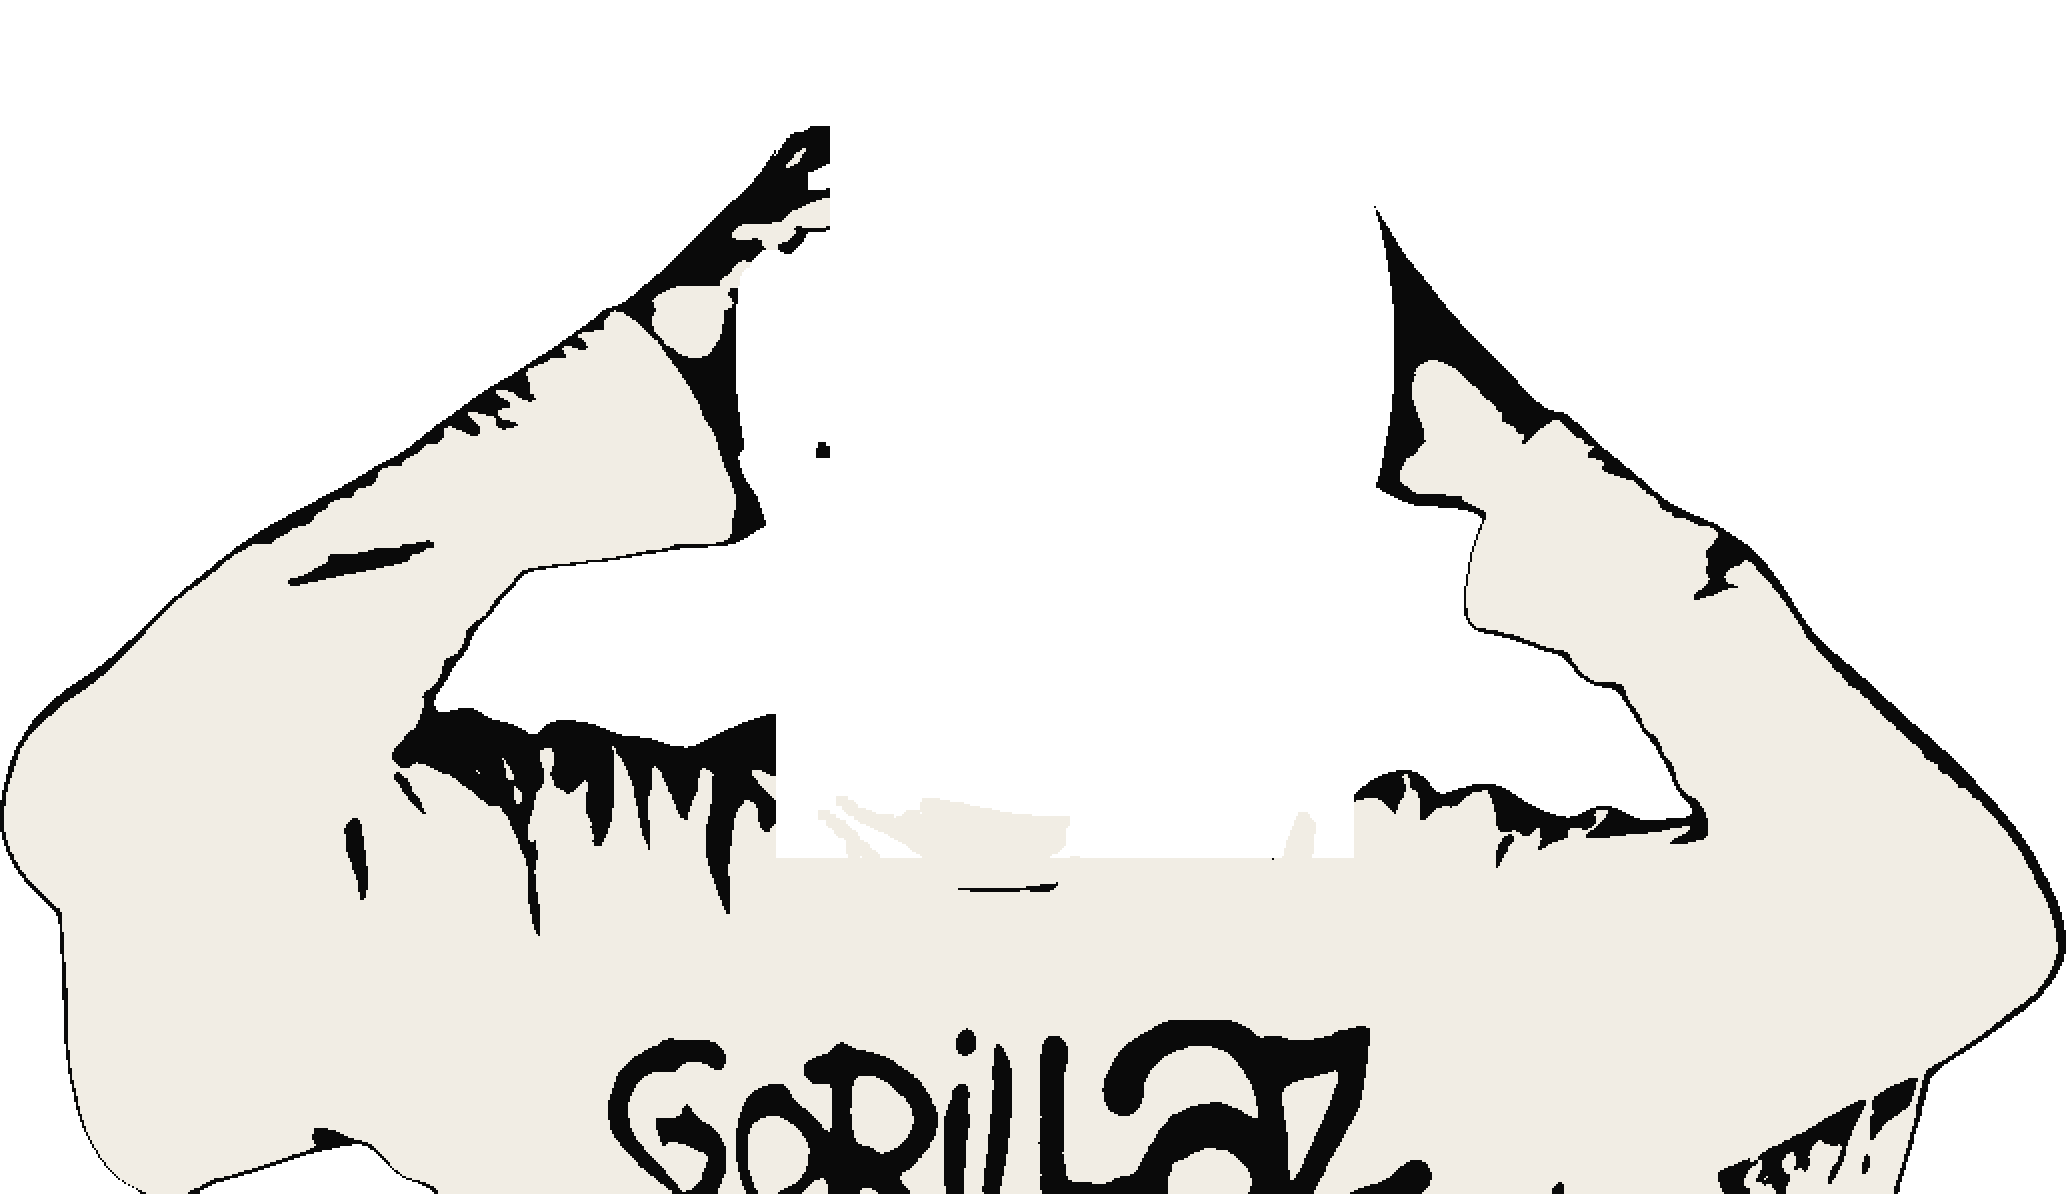
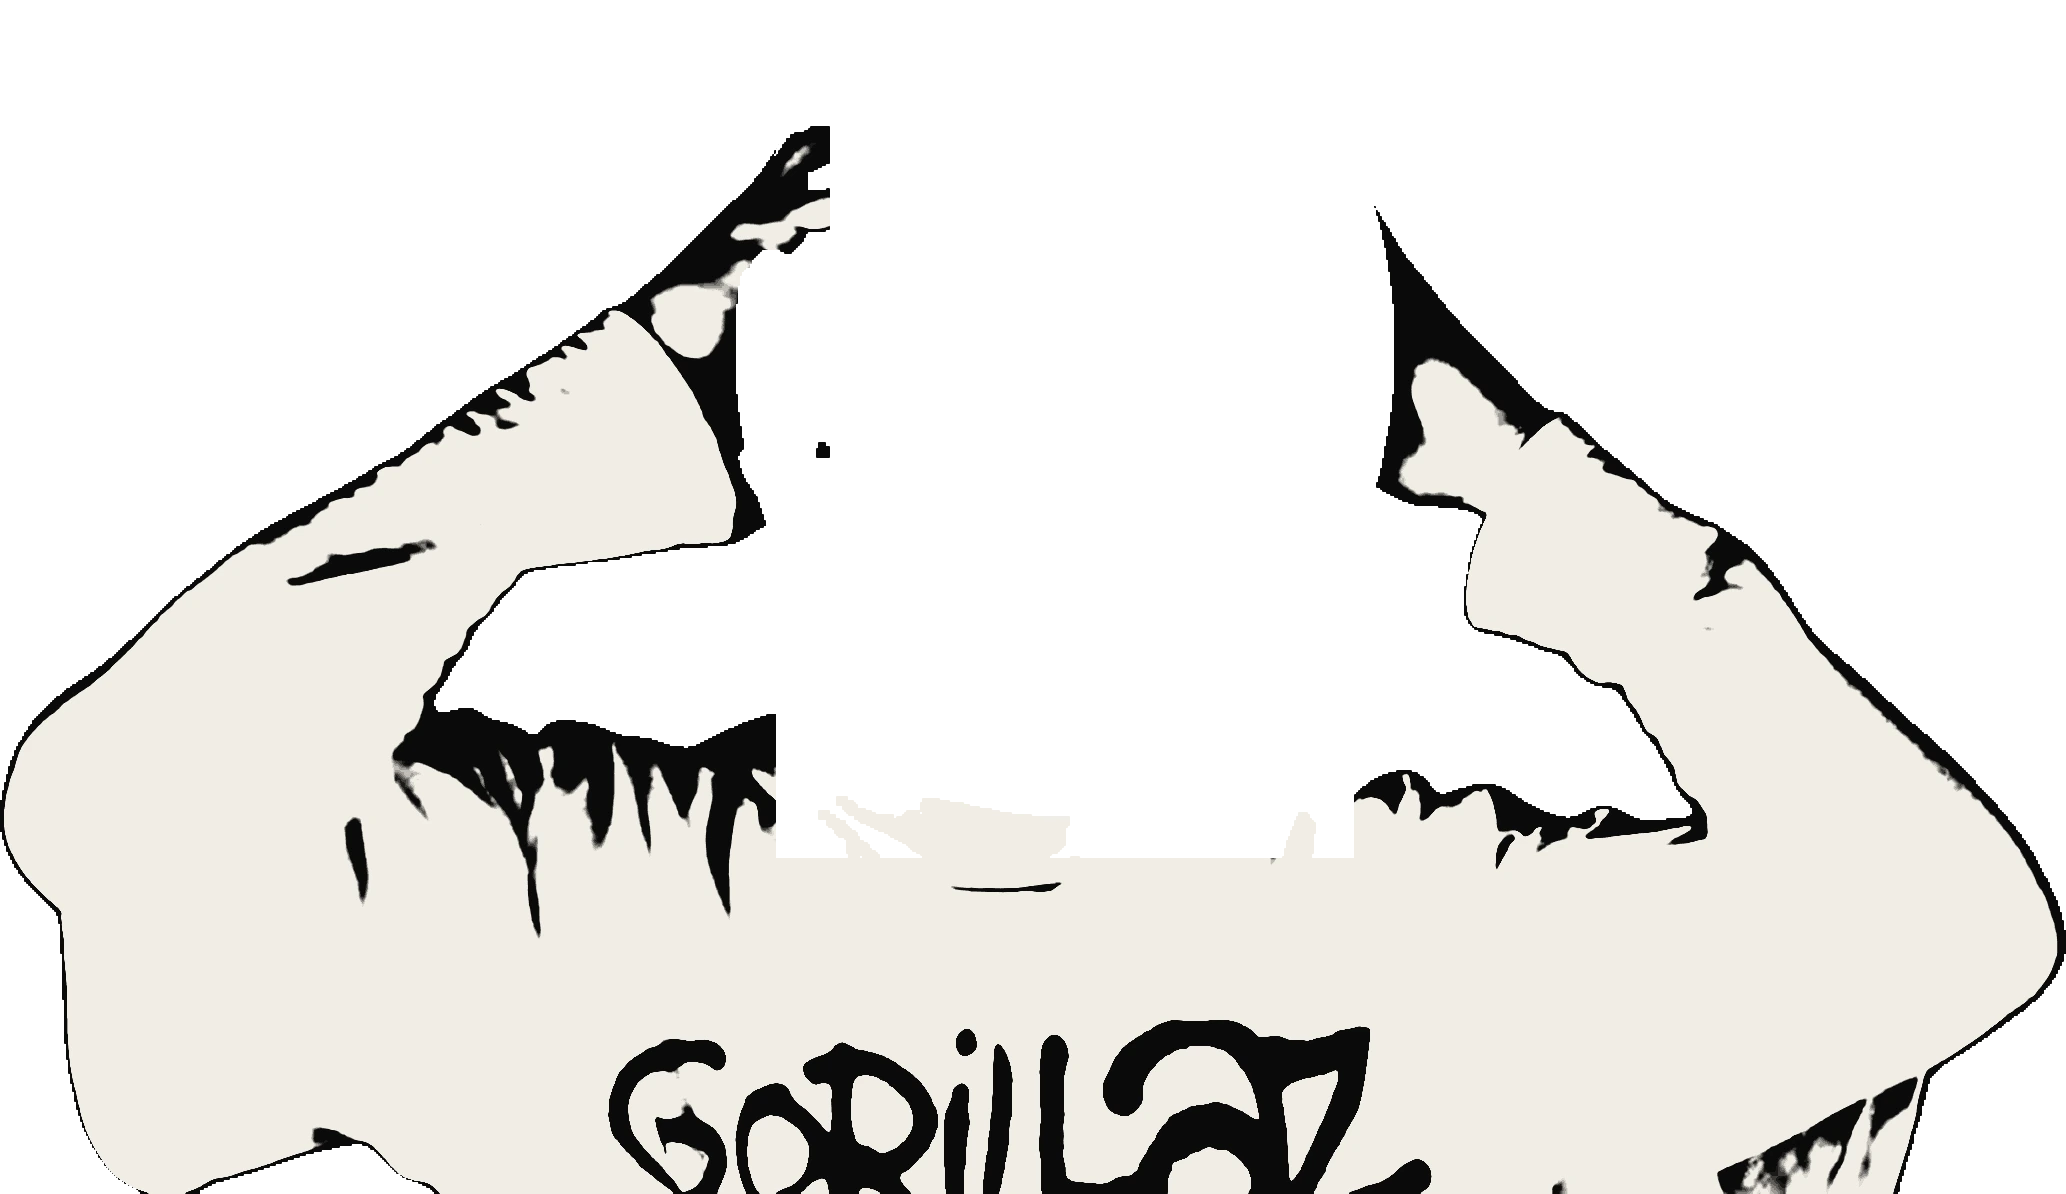
Portada: bordes suaves, degradado más largo, firma separada y cara en blanco y negro dentro de la mancha
Claude-Session: https://claude.ai/code/session_01NEzbccjhWNBMk8itoPmEQH

diff --git a/css/estilos.css b/css/estilos.css
@@ -1143,3 +1143,21 @@ video.wcard__img { background: var(--ink-2); }
 @media (max-width: 760px) {
     .hero__figure { width: min(185vw, calc(66svh * 2066 / 1194)); }
 }
+
+/* ---------- PORTADA: integración más suave ---------- */
+/* Degradado más largo y progresivo: la figura se funde con el fondo */
+.hero::after {
+    height: 55%;
+    background: linear-gradient(to top, var(--ink) 0%, rgba(10,10,10,.92) 18%, rgba(10,10,10,.6) 45%, rgba(10,10,10,0) 100%);
+}
+.hero__figure { filter: none; }
+/* Firma: abajo a la derecha, fuera de la cara y de las letras */
+.hero__sign { bottom: 14%; right: 4%; width: min(26vw, 380px); }
+/* Texto de abajo: más estrecho para que no se meta en la figura */
+.hero__claim { max-width: 26ch; }
+@media (max-width: 760px) {
+    .hero__sign { top: 24%; bottom: auto; right: 6%; width: 50vw; }
+}
+@media (max-width: 760px) {
+    .hero::after { height: 38%; }
+}

diff --git a/index.html b/index.html
@@ -77,8 +77,8 @@
                 <!-- Zona sensible al ratón: la cabeza -->
                 <div class="hero__hit" id="hero-hit" role="button" tabindex="0" aria-label="Quitar el gato y ver mi cara"></div>
                 <!-- Mi cabeza real (escondida) y la cabeza del gato dibujado a mano (visible), en la misma posición exacta -->
-                <img class="hero__me" src="Img/fernando-color.webp" alt="" aria-hidden="true" draggable="false">
-                <img class="hero__owl" src="Img/gato-cabeza.webp" alt="" aria-hidden="true" draggable="false">
+                <img class="hero__me" src="Img/fernando-bn.webp" alt="" aria-hidden="true" draggable="false">
+                <img class="hero__owl" src="Img/gato-cabeza-suave.webp" alt="" aria-hidden="true" draggable="false">
             </div>
             </div>
 
